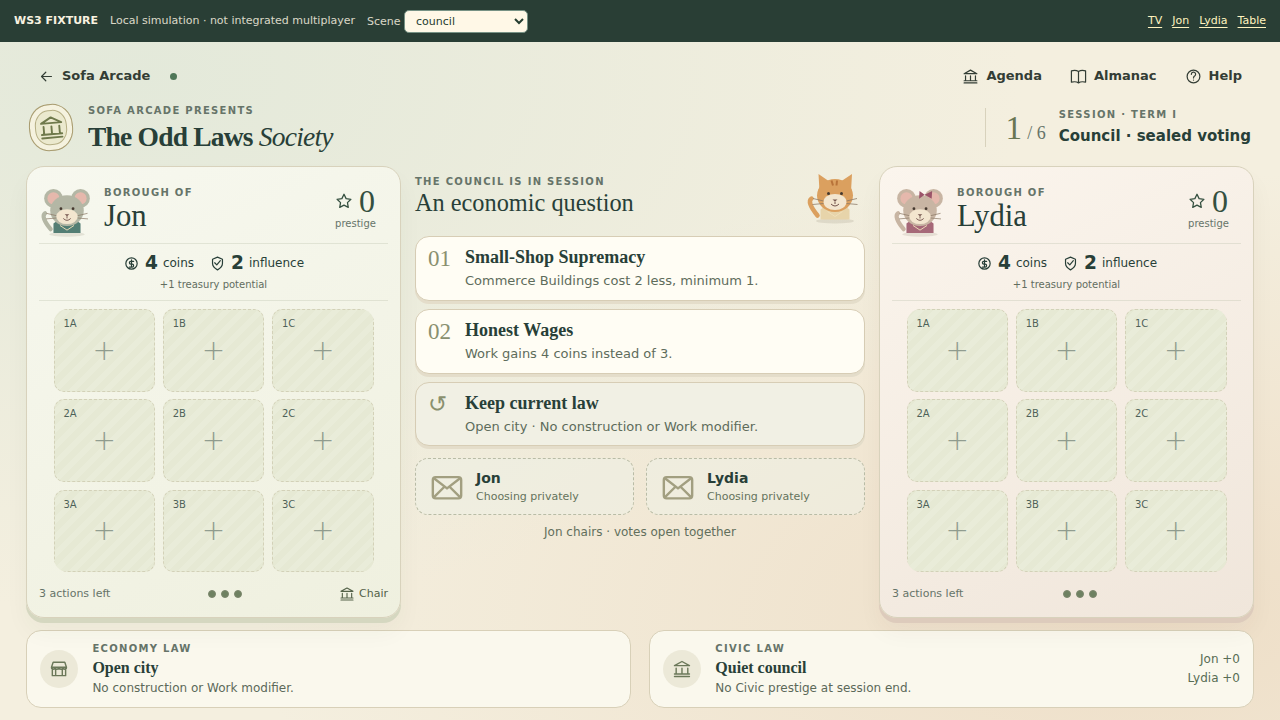
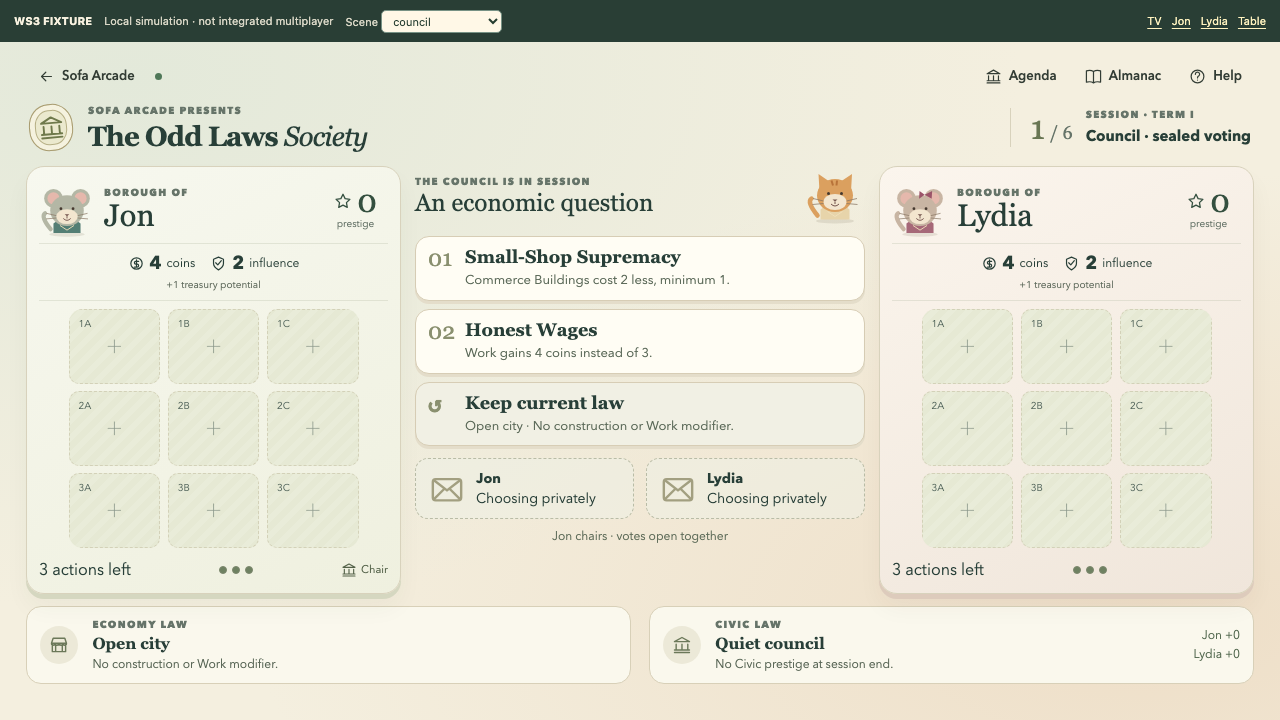
Fix remaining CI failures before the merge into main
- Install root dependencies before the local integration suites; the party
  harness needs ws.
- Keep the Odd Laws council inside a 1280x720 TV with Linux fonts: smaller
  labels and city grids on short screens only.
- Record what the phone shows if the party hero test fails in CI.

diff --git a/public/games/odd-laws-society/tv.css b/public/games/odd-laws-society/tv.css
@@ -299,3 +299,12 @@
     font-size: var(--tv-type-emphasis, 20px);
   }
 }
+
+/* Short TV frames such as 1280×720 have little spare height, and Linux fonts
+   render taller than macOS fonts. Keep the sofa-sized labels on taller screens. */
+@media (min-width: 1000px) and (max-height: 780px) {
+  .ols .ols-tv-ballot > span:last-child,
+  .ols .ols-tv-card-top .ols-tv-stock { font-size: 14px; }
+  .ols .ols-tv-borough-foot > span:first-child { font-size: 16px; }
+  .ols .ols-tv-city-wrap { max-width: 290px; }
+}

diff --git a/ui/games/odd-laws-society/tv.css b/ui/games/odd-laws-society/tv.css
@@ -299,3 +299,12 @@
     font-size: var(--tv-type-emphasis, 20px);
   }
 }
+
+/* Short TV frames such as 1280×720 have little spare height, and Linux fonts
+   render taller than macOS fonts. Keep the sofa-sized labels on taller screens. */
+@media (min-width: 1000px) and (max-height: 780px) {
+  .ols .ols-tv-ballot > span:last-child,
+  .ols .ols-tv-card-top .ols-tv-stock { font-size: 14px; }
+  .ols .ols-tv-borough-foot > span:first-child { font-size: 16px; }
+  .ols .ols-tv-city-wrap { max-width: 290px; }
+}
